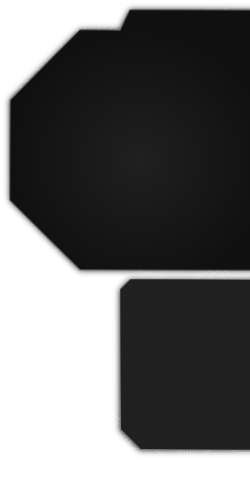
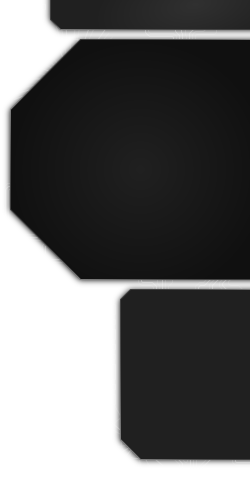
Tweaked the "orbits" UI widget so there's space for a much longer system or planet name.

Changed region(s): [[0.028, 0.0, 1.0, 0.625], [0.504, 0.9062, 0.532, 0.9375], [0.476, 0.875, 0.504, 0.9062]]

diff --git a/source/MapDetailPanel.cpp b/source/MapDetailPanel.cpp
@@ -277,7 +277,7 @@ void MapDetailPanel::DrawKey()
 	Color dim(.3, .3);
 	const Font &font = FontSet::Get(14);
 	
-	Point pos = Screen::TopRight() + Point(-110., 300.);
+	Point pos = Screen::TopRight() + Point(-110., 310.);
 	Point headerOff(-5., -.5 * font.Height());
 	Point textOff(10., -.5 * font.Height());
 	
@@ -550,7 +550,7 @@ void MapDetailPanel::DrawOrbits()
 	// Draw the planet orbits in the currently selected system.
 	const Sprite *orbitSprite = SpriteSet::Get("ui/orbits and key");
 	SpriteShader::Draw(orbitSprite, Screen::TopRight() + .5 * Point(-orbitSprite->Width(), orbitSprite->Height()));
-	Point orbitCenter = Screen::TopRight() + Point(-120., 150.);
+	Point orbitCenter = Screen::TopRight() + Point(-120., 160.);
 	
 	if(!selectedSystem || !player.HasVisited(selectedSystem))
 		return;
@@ -569,6 +569,7 @@ void MapDetailPanel::DrawOrbits()
 	if(maxDistance > 115.)
 		scale *= 115. / maxDistance;
 	
+	// Draw the orbits.
 	static const Color habitColor[7] = {
 		Color(.4, .2, .2, 1.),
 		Color(.3, .3, 0., 1.),
@@ -597,13 +598,9 @@ void MapDetailPanel::DrawOrbits()
 		RingShader::Draw(orbitCenter + parentPos * scale,
 			radius + .7, radius - .7,
 			habitColor[habit]);
-		
-		if(selectedPlanet && object.GetPlanet() == selectedPlanet)
-			RingShader::Draw(orbitCenter + object.Position() * scale,
-				object.Radius() * scale + 5., object.Radius() * scale + 4.,
-				habitColor[6]);
 	}
 	
+	// Draw the planets themselves.
 	planets.clear();
 	for(const StellarObject &object : selectedSystem->Objects())
 	{
@@ -620,11 +617,16 @@ void MapDetailPanel::DrawOrbits()
 		RingShader::Draw(pos, object.Radius() * scale + 1., 0., color);
 	}
 	
+	// Draw the selection ring on top of everything else.
+	for(const StellarObject &object : selectedSystem->Objects())
+		if(selectedPlanet && object.GetPlanet() == selectedPlanet)
+			RingShader::Draw(orbitCenter + object.Position() * scale,
+				object.Radius() * scale + 5., object.Radius() * scale + 4.,
+				habitColor[6]);
+	
 	// Draw the name of the selected planet.
 	const string &name = selectedPlanet ? selectedPlanet->Name() : selectedSystem->Name();
-	int width = font.Width(name);
-	width = (width / 2) + 75;
-	Point namePos(Screen::Right() - width - 5., Screen::Top() + 13.);
+	Point namePos(Screen::Right() - .5 * font.Width(name) - 100., Screen::Top() + 7.);
 	Color nameColor(.6, .6);
 	font.Draw(name, namePos, nameColor);
 }
